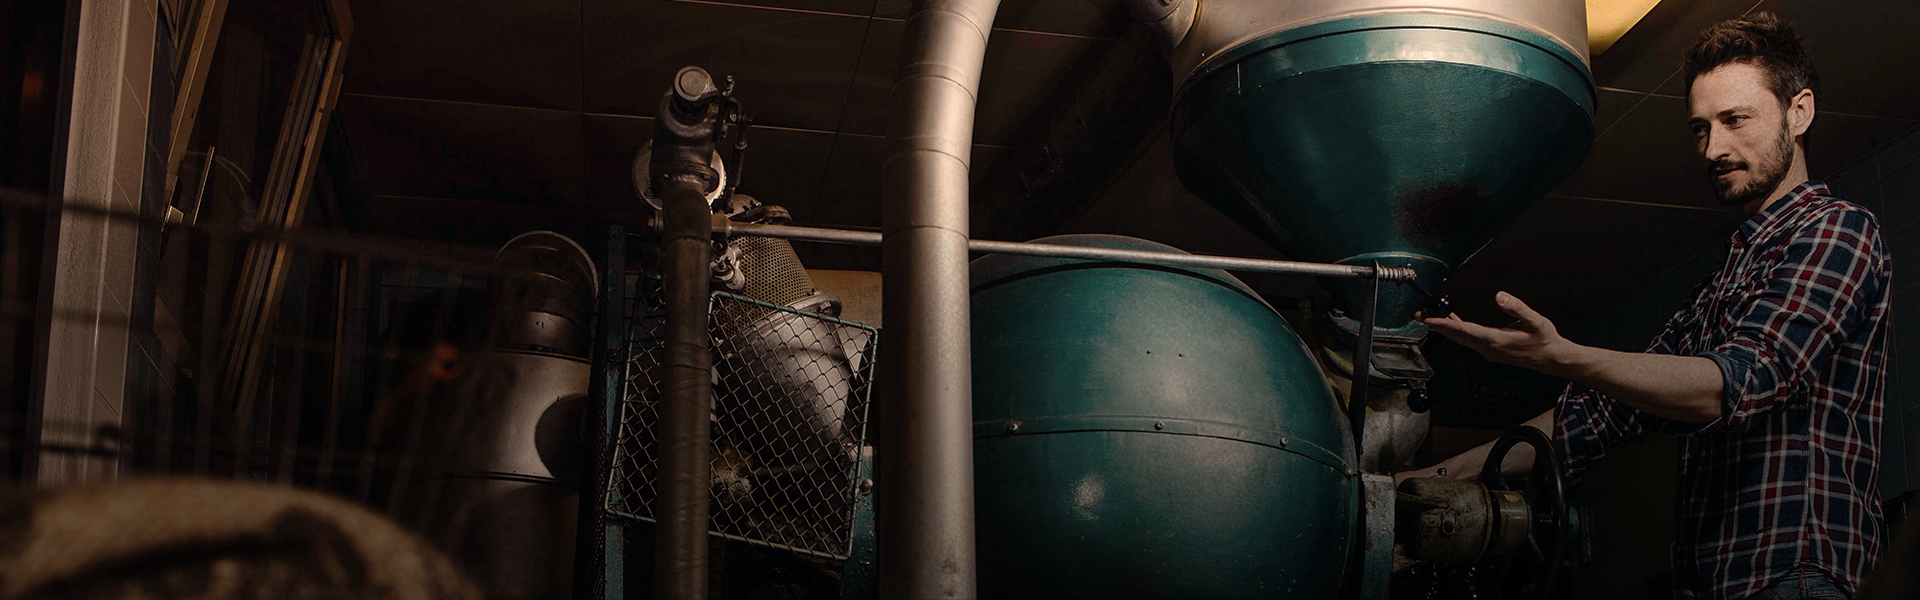
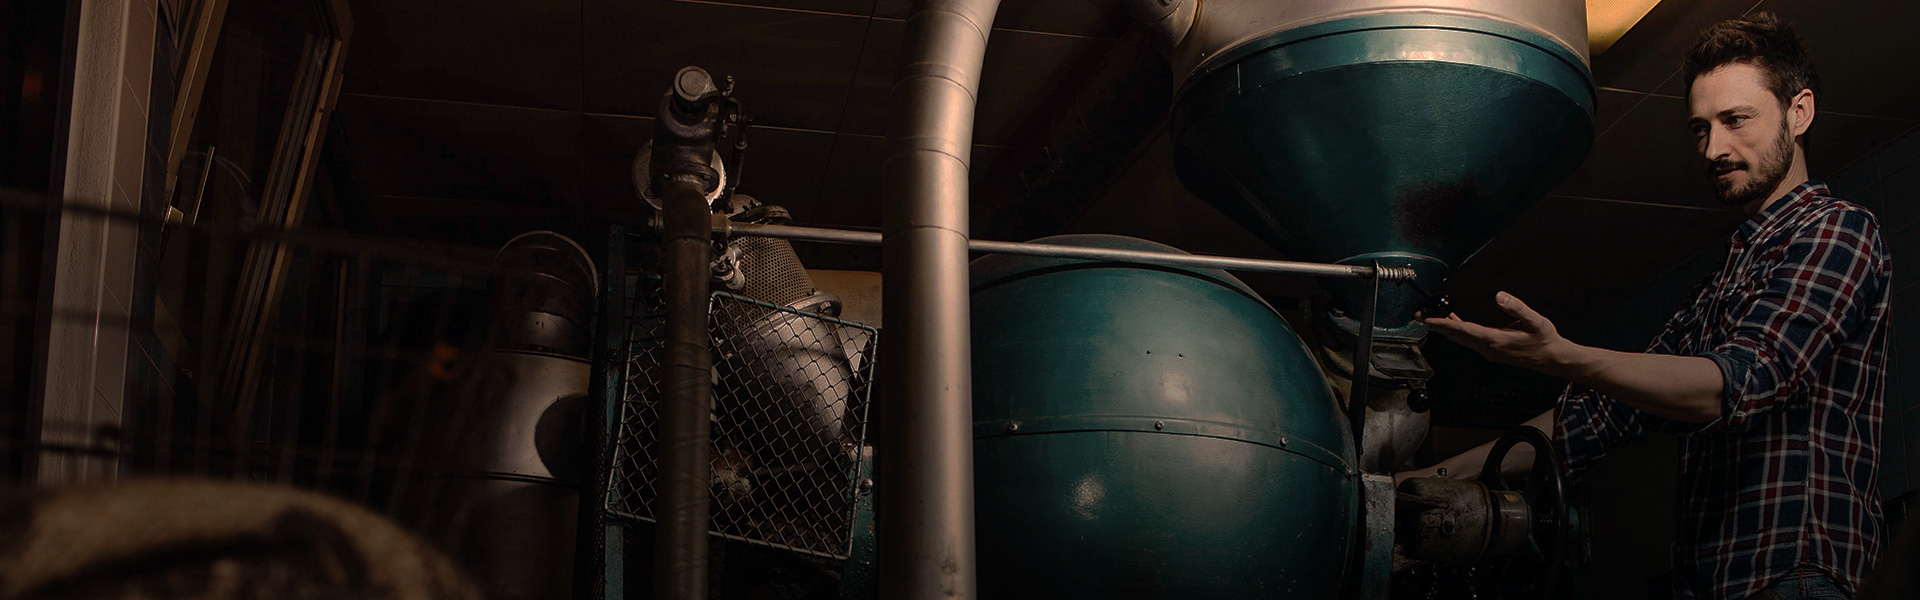
neue startseiten bilder

diff --git a/assets/scss/styles/front_page.scss b/assets/scss/styles/front_page.scss
@@ -5,25 +5,40 @@
   height: 600px;
   background: transparent url("../img/frontpage/startseite-header-kaffee-1920x600px.jpg") no-repeat center center;
 
+  @media all and (max-width: $medium-breakpoint) and (min-width: $small-breakpoint + 1) {
+    height: 600px;
+    background-image: url("../img/frontpage/startseite-header-kaffee-1080x600px.jpg");
+  }
+
   @media all and (max-width: $small-breakpoint) {
     height: 485px;
-    background-image: url("../img/frontpage/header-mobil-kaffee-375x485px.png");
+    background-image: url("../img/frontpage/startseite-header-mobil-kaffee-375x485px.jpg");
   }
 }
 
 .frontpage-slider-image-2 {
   background-image: url("../img/frontpage/startseite-header-roesterei-1920x600px.jpg");
 
+  @media all and (max-width: $medium-breakpoint) and (min-width: $small-breakpoint + 1) {
+    height: 600px;
+    background-image: url("../img/frontpage/startseite-header-roesterei-1080x600px.jpg");
+  }
+
   @media all and (max-width: $small-breakpoint) {
-    background-image: url("../img/frontpage/header-mobil-roesterei-375x485px.png");
+    background-image: url("../img/frontpage/startseite-header-mobil-roesterei-375x485px.jpg");
   }
 }
 
 .frontpage-slider-image-3 {
   background: url("../img/frontpage/startseite-header-wein-1920x600px.jpg");
 
+  @media all and (max-width: $medium-breakpoint) and (min-width: $small-breakpoint + 1) {
+    height: 600px;
+    background-image: url("../img/frontpage/startseite-header-wein-1080x600px.jpg");
+  }
+
   @media all and (max-width: $small-breakpoint) {
-    background-image: url("../img/frontpage/header-mobil-wein-375x485px.png");
+    background-image: url("../img/frontpage/startseite-header-mobil-wein-375x485px.jpg");
   }
 }
 
